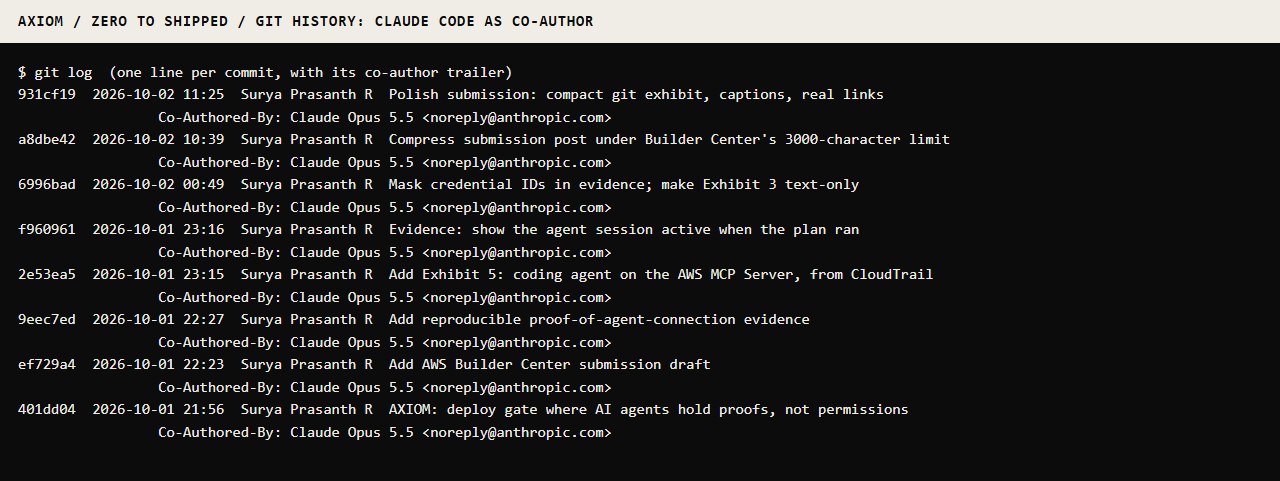
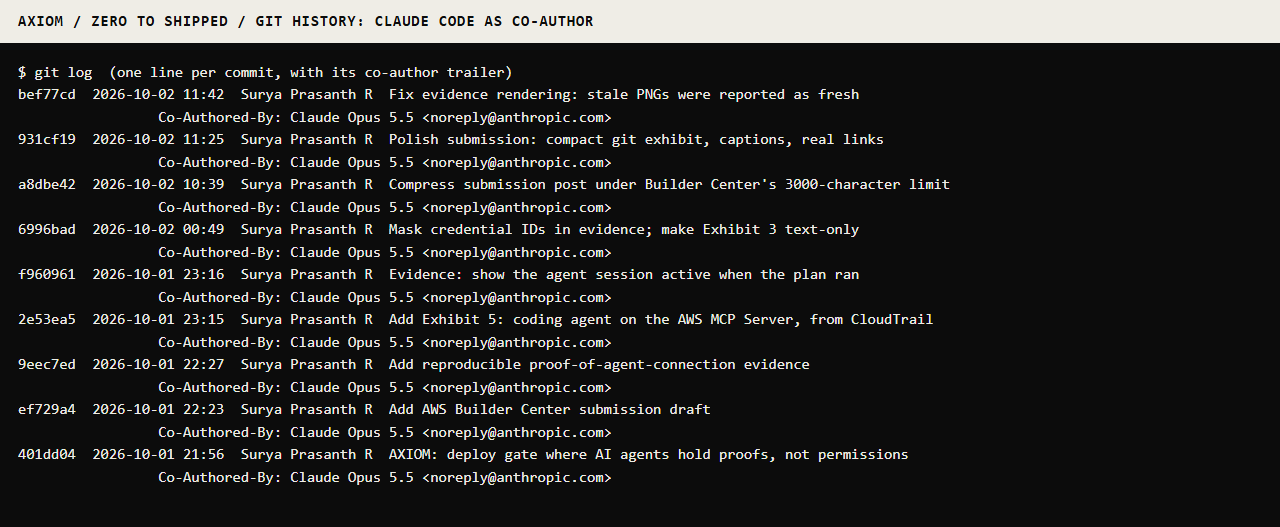
Mask 21-character IAM unique IDs in evidence
The mask assumed every AWS ID is 20 characters, which holds for access
key IDs (AKIA/ASIA) but not IAM user and role unique IDs (AIDA/AROA),
which are 21. Exhibit 1 showed the builder user's full UserId. Both
lengths are now masked and every exhibit is re-rendered.

Changed region(s): [[0.0, 0.1247, 0.75, 0.9356], [0.0, 0.0312, 1.0, 0.0936]]

diff --git a/scripts/collect_evidence.py b/scripts/collect_evidence.py
@@ -31,8 +31,9 @@ ACCOUNT = "841535407298"
 
 def mask(text: str) -> str:
     text = text.replace(ACCOUNT, f"{ACCOUNT[:4]}****{ACCOUNT[-4:]}")
-    # Credential and IAM unique IDs (ASIA/AKIA access keys, AIDA users, AROA roles): keep both ends for matching.
-    text = re.sub(r"\b((?:AKIA|ASIA|AIDA|AROA)[A-Z0-9]{16})\b", lambda m: f"{m.group(1)[:4]}...{m.group(1)[-4:]}", text)
+    # Access key IDs (AKIA/ASIA + 16) and IAM unique IDs (AIDA users, AROA roles + 17): keep both ends for matching.
+    text = re.sub(r"\b((?:AKIA|ASIA)[A-Z0-9]{16}|(?:AIDA|AROA)[A-Z0-9]{17})\b",
+                  lambda m: f"{m.group(1)[:4]}...{m.group(1)[-4:]}", text)
     return re.sub(r"\b\d{1,3}(?:\.\d{1,3}){3}\b", "x.x.x.x", text)
 
 
